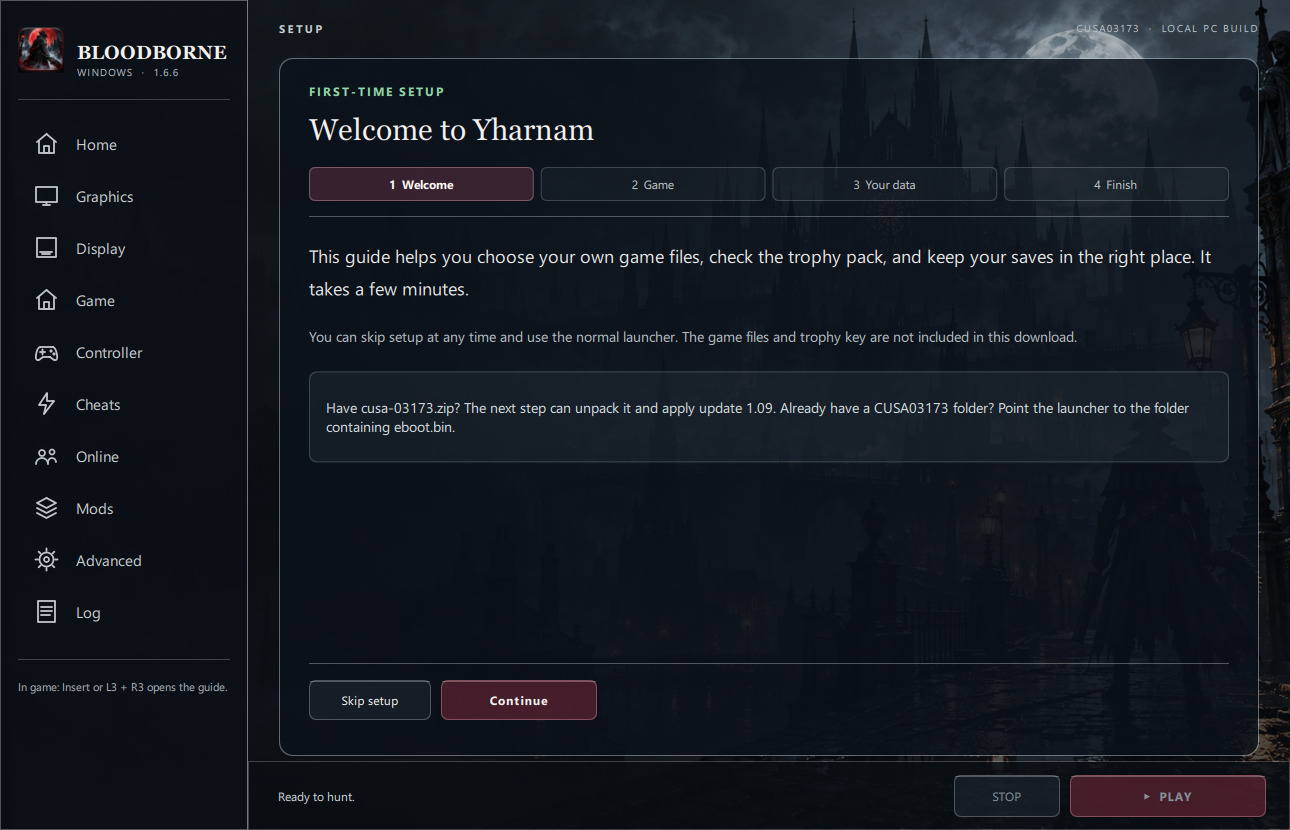
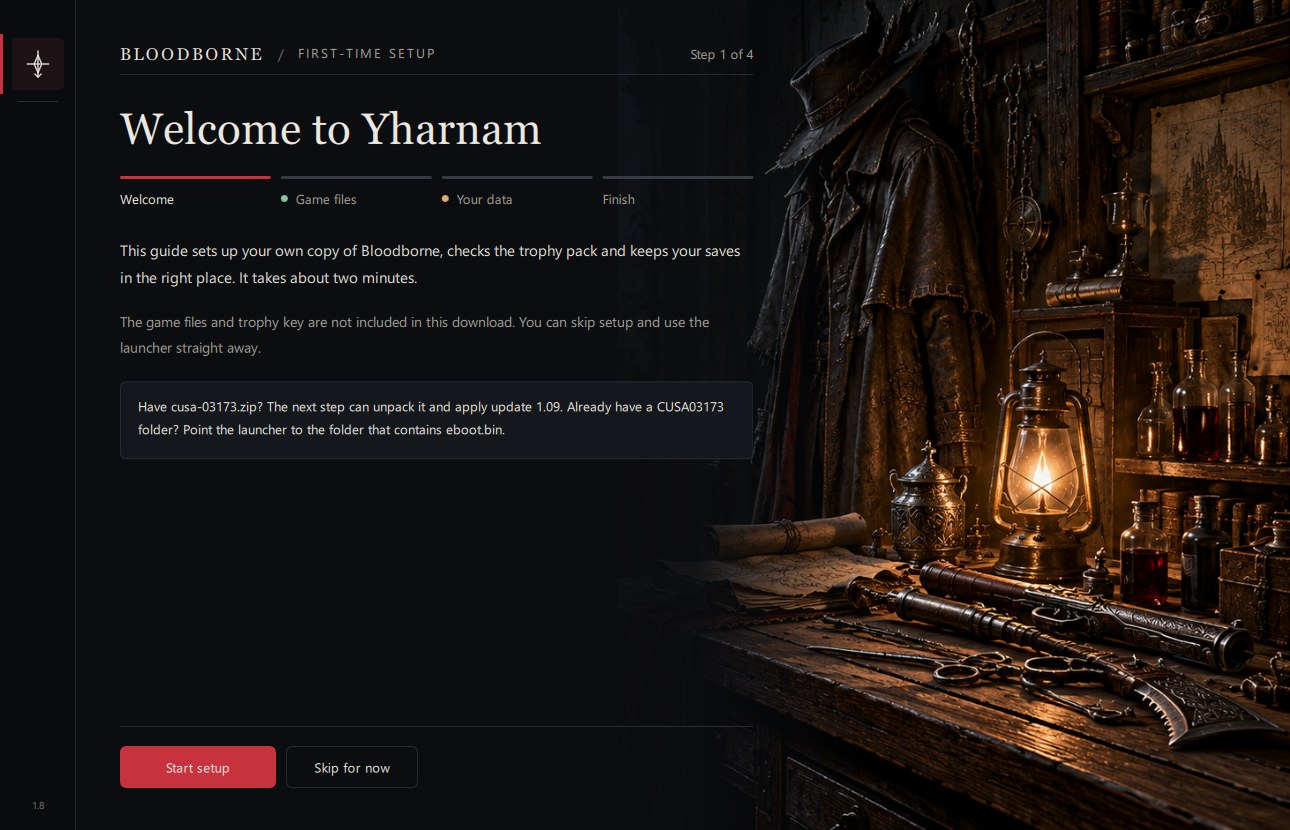
README: 1.8 screenshots (launcher, Visuals and Keyboard settings, setup wizard)
The launcher, setup wizard and two Settings pages from the 1.8 launcher;
the shader pre-build, keyboard smoothing and Precise readbacks in the
feature list and known issues. The Controls category now says it also
holds keyboard settings.

diff --git a/launcher/qml/SettingsWorkspace.qml b/launcher/qml/SettingsWorkspace.qml
@@ -14,7 +14,7 @@ Item {
     property string query: ""
     property var categories: [
         {name: "Visuals", icon: "visuals", tile: "tile-visuals", detail: "Graphics, display & frame rate"},
-        {name: "Controls", icon: "controls", tile: "tile-controls", detail: "Button prompts & mouse"},
+        {name: "Controls", icon: "controls", tile: "tile-controls", detail: "Prompts, mouse & keyboard"},
         {name: "Game & Saves", icon: "folder", tile: "tile-game-and-saves", detail: "Game files, saves & language"},
         {name: "Online", icon: "online", tile: "tile-online", detail: "Account & connection"},
         {name: "Mods & Patches", icon: "puzzle", tile: "tile-mods-and-patches", detail: "Mods, enhancements & tweaks"},

diff --git a/README.md b/README.md
@@ -33,6 +33,12 @@ of upcoming features are marked *Pre-release* on the
 - Output from 720p to 4K, fullscreen switchable while playing, 30/60/90 FPS or unlocked with a cap.
 - The game's effects on or off: chromatic aberration, depth of field, motion blur, SSAO, the
   game's AA, dynamic shadows, screen-space reflections, model detail.
+- Shader pre-build: shaders the game is known to use are built while it starts (*Preparing
+  shaders* in the window title) instead of stuttering the first time an area or effect appears.
+  The included catalog covers the game up to the Blood-starved Beast so far; it lists shaders,
+  not game code, and each install builds them from its own files. Off with `BB_SHADER_PREBUILD=0`.
+
+![Settings: Visuals](docs/images/settings.jpg)
 
 **In the game**
 - PC settings in the game's own System menu: PC Graphics, Display, Effects, Settings and
@@ -44,7 +50,9 @@ of upcoming features are marked *Pre-release* on the
 - Controller, and keyboard and mouse at the same time, with rebindable keys
   (`key_<action>=` lines in `bbport.ini`).
 - Mouse camera: click the game window and the mouse turns the camera 1:1. Sensitivity and
-  invert Y are on the launcher's Controller page.
+  invert Y are in **Settings > Controls > Mouse**.
+- Keyboard movement smoothing: changing direction with WASD swings smoothly instead of
+  stopping for a moment (**Settings > Controls > Keyboard**, *Off* to disable).
 - Button prompts: PlayStation, Xbox (included) or keyboard keys (see below), switchable in the
   launcher and the guide.
 
@@ -84,8 +92,8 @@ What changed in each release: [docs/CHANGELOG.md](docs/CHANGELOG.md).
 4. On **Your data**, optionally import your own `keys.json` (for achievement names) or choose an
    existing saves folder. The checks turn green when the game folder has version 1.09; amber is
    normal for a new install without saves.
-5. Click **Play now**. The first launch prepares files and may take a while, and new areas may
-   stutter briefly while shaders are built.
+5. Click **Play now**. The first launch prepares files and builds the known shaders
+   (*Preparing shaders: N%* in the window title), so it takes a while; later starts are quick.
 
 ![The setup wizard](docs/images/first-run-wizard.jpg)
 
@@ -121,6 +129,8 @@ keys to the ones the images show: E interact, Left Shift dodge, R blood vial, Q 
 F transform, left / right / middle mouse for attack / firearm / lock-on, Left Ctrl + left mouse
 for strong attack, Space for L3, G and H for gestures and personal effects. Switch back to
 PlayStation or Xbox in the launcher or the guide's **Mods** tab at any time.
+
+![Settings: Controls > Keyboard](docs/images/settings-keyboard.jpg)
 
 ## Already have another launcher or game installation?
 
@@ -168,8 +178,12 @@ page take precedence:
 - Rebirth and two invaders have not been tested in play yet.
 - Keep the frame cap at 120 FPS or lower. The sprint fix removes the known half-speed sprint
   above it, but higher caps are not tested yet.
-- New areas stutter briefly the first time while shaders compile. On a black screen, try
+- Areas and effects beyond the shader catalog (so far, after the Blood-starved Beast) still
+  stutter briefly the first time while their shaders compile; later releases extend the catalog.
+  On AMD and Intel GPUs most fragment shaders still compile in play. On a black screen, try
   **Advanced → Clear shader cache**.
+- Occasional "exploded" character faces: set **GPU readbacks** to **Precise** (Settings > System > Engine);
+  it costs some speed.
 
 ## Requirements
 
